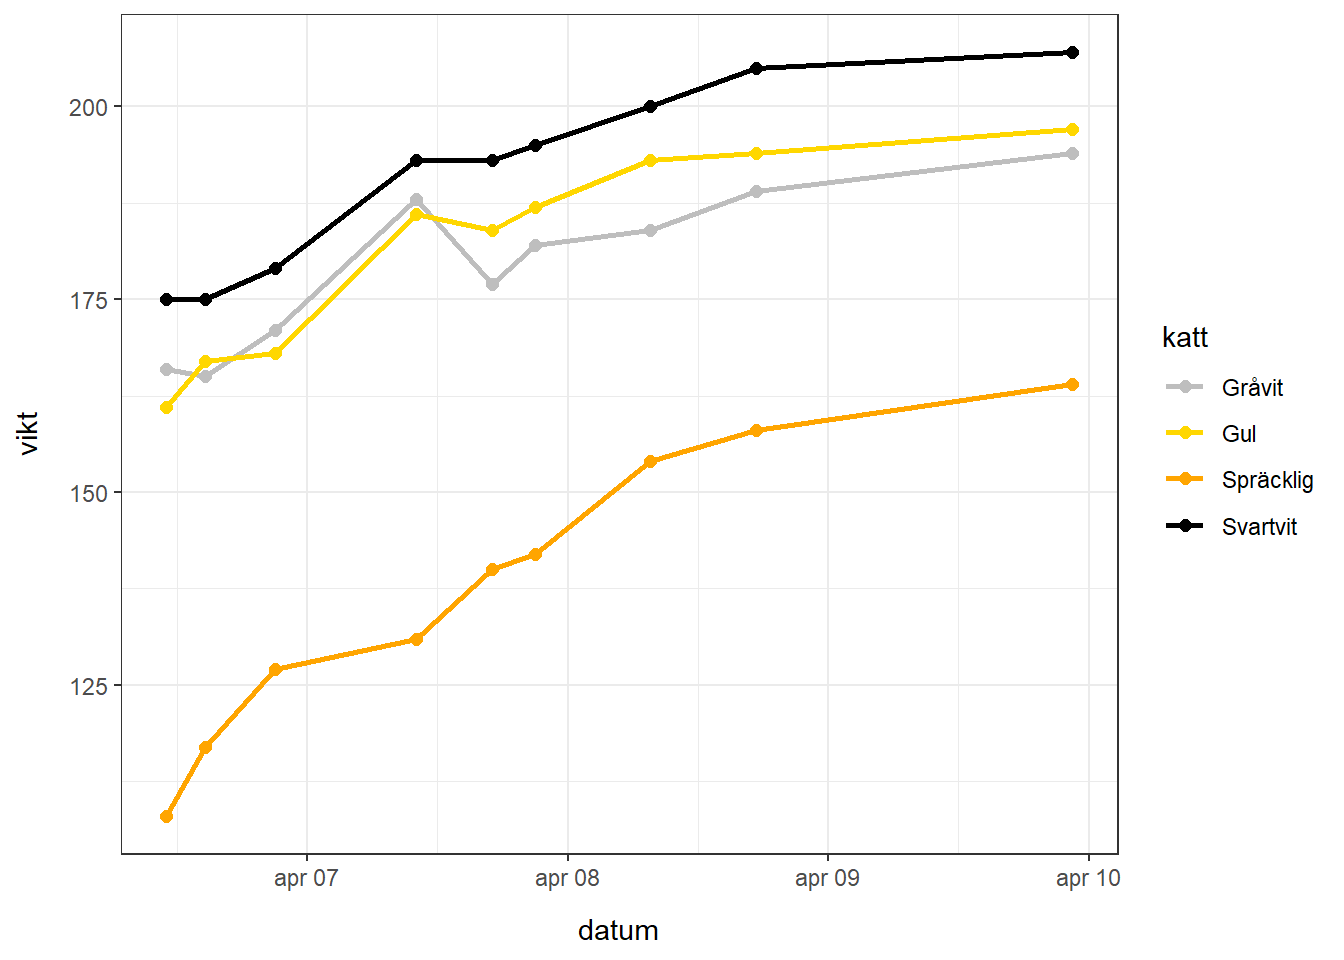
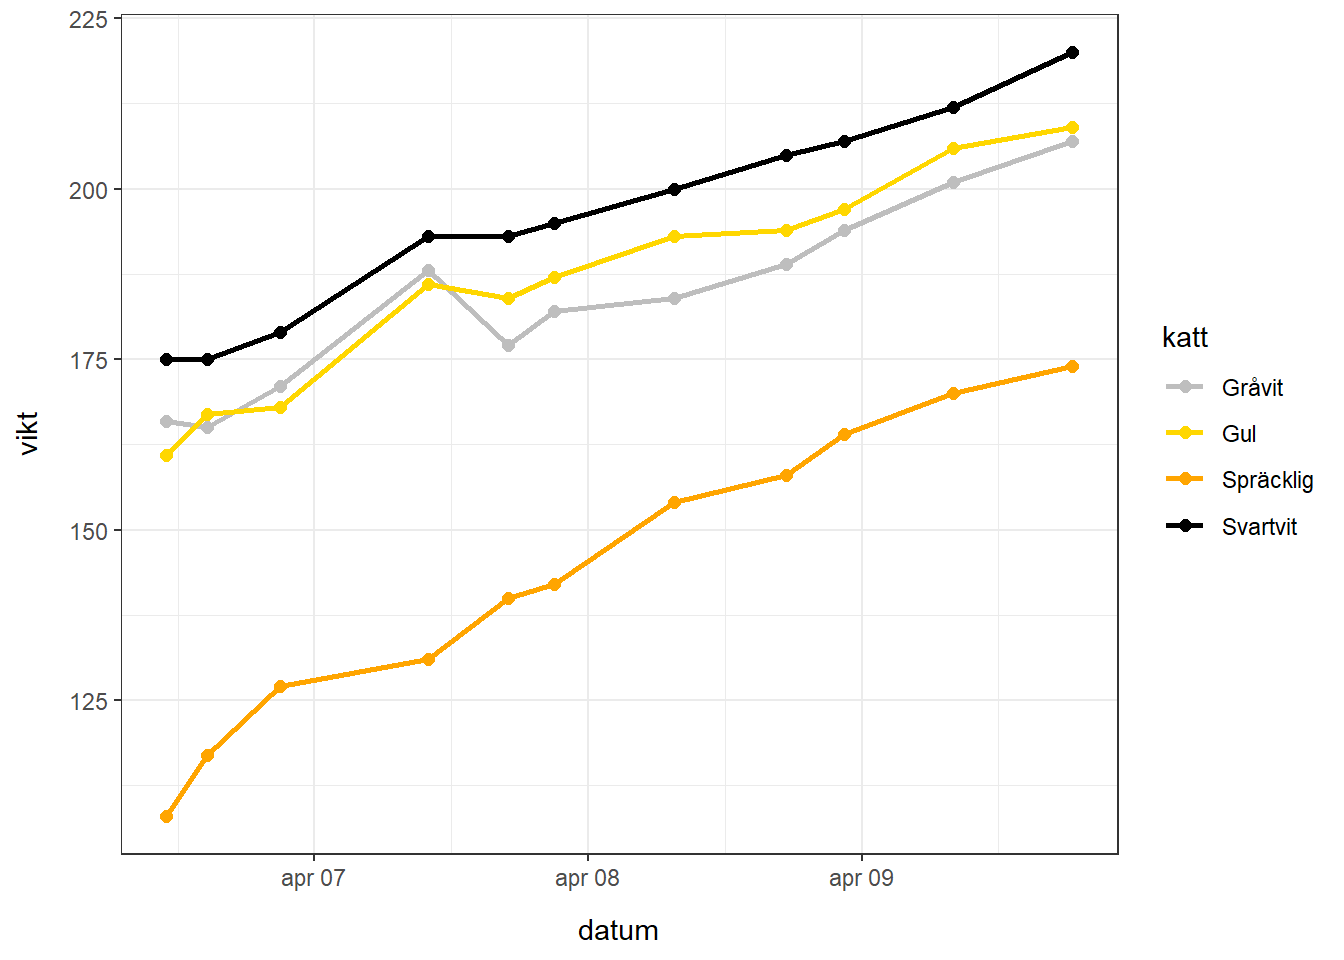
update weights

diff --git a/docs/kittens.html b/docs/kittens.html
@@ -7,7 +7,7 @@
 <meta name="viewport" content="width=device-width, initial-scale=1.0, user-scalable=yes">
 
 <meta name="author" content="Frej, Birk och Ingvild Gharbi Jeppsson">
-<meta name="dcterms.date" content="2024-04-08">
+<meta name="dcterms.date" content="2024-04-10">
 
 <title>Kattungar</title>
 <style>
@@ -65,14 +65,24 @@ ul.task-list li input[type="checkbox"] {
 
 </head>
 
-<body class="fullcontent">
+<body>
 
 <div id="quarto-search-results"></div>
 <!-- content -->
 <div id="quarto-content" class="quarto-container page-columns page-rows-contents page-layout-article">
 <!-- sidebar -->
 <!-- margin-sidebar -->
-    
+    <div id="quarto-margin-sidebar" class="sidebar margin-sidebar">
+        <nav id="TOC" role="doc-toc" class="toc-active">
+    <h2 id="toc-title">On this page</h2>
+   
+  <ul>
+  <li><a href="#bakgrund" id="toc-bakgrund" class="nav-link active" data-scroll-target="#bakgrund">Bakgrund</a></li>
+  <li><a href="#utveckling" id="toc-utveckling" class="nav-link" data-scroll-target="#utveckling">Utveckling</a></li>
+  <li><a href="#rubrik-3" id="toc-rubrik-3" class="nav-link" data-scroll-target="#rubrik-3">Rubrik 3</a></li>
+  </ul>
+</nav>
+    </div>
 <!-- main -->
 <main class="content" id="quarto-document-content">
 
@@ -95,7 +105,7 @@ ul.task-list li input[type="checkbox"] {
     <div>
     <div class="quarto-title-meta-heading">Published</div>
     <div class="quarto-title-meta-contents">
-      <p class="date">April 8, 2024</p>
+      <p class="date">April 10, 2024</p>
     </div>
   </div>
   
@@ -105,6 +115,18 @@ ul.task-list li input[type="checkbox"] {
 
 </header>
 
+<div class="cell">
+<div class="cell-output cell-output-stderr">
+<pre><code>Warning: Expecting numeric in H40 / R40C8: got a date</code></pre>
+</div>
+<div class="cell-output cell-output-stderr">
+<pre><code>New names:
+• `` -&gt; `...20`
+• `` -&gt; `...21`
+• `` -&gt; `...22`
+• `` -&gt; `...23`</code></pre>
+</div>
+</div>
 <section id="bakgrund" class="level2">
 <h2 class="anchored" data-anchor-id="bakgrund">Bakgrund</h2>
 <p>Lite info om våra kattungar.</p>
@@ -118,8 +140,22 @@ ul.task-list li input[type="checkbox"] {
 <section id="utveckling" class="level2">
 <h2 class="anchored" data-anchor-id="utveckling">Utveckling</h2>
 <div class="cell">
+<div class="cell-output cell-output-stderr">
+<pre><code>Warning: Removed 112 rows containing missing values or values outside the scale range
+(`geom_point()`).</code></pre>
+</div>
+<div class="cell-output cell-output-stderr">
+<pre><code>Warning: Removed 112 rows containing missing values or values outside the scale range
+(`geom_line()`).</code></pre>
+</div>
 <div class="cell-output-display">
 <p><img src="kittens_files/figure-html/unnamed-chunk-3-1.png" class="img-fluid" width="672"></p>
+</div>
+<div class="cell-output cell-output-stderr">
+<pre><code>Warning: Removed 112 rows containing missing values or values outside the scale range
+(`geom_point()`).
+Removed 112 rows containing missing values or values outside the scale range
+(`geom_line()`).</code></pre>
 </div>
 <div class="cell-output-display">
 <p><img src="kittens_files/figure-html/unnamed-chunk-3-2.png" class="img-fluid" width="672"></p>
